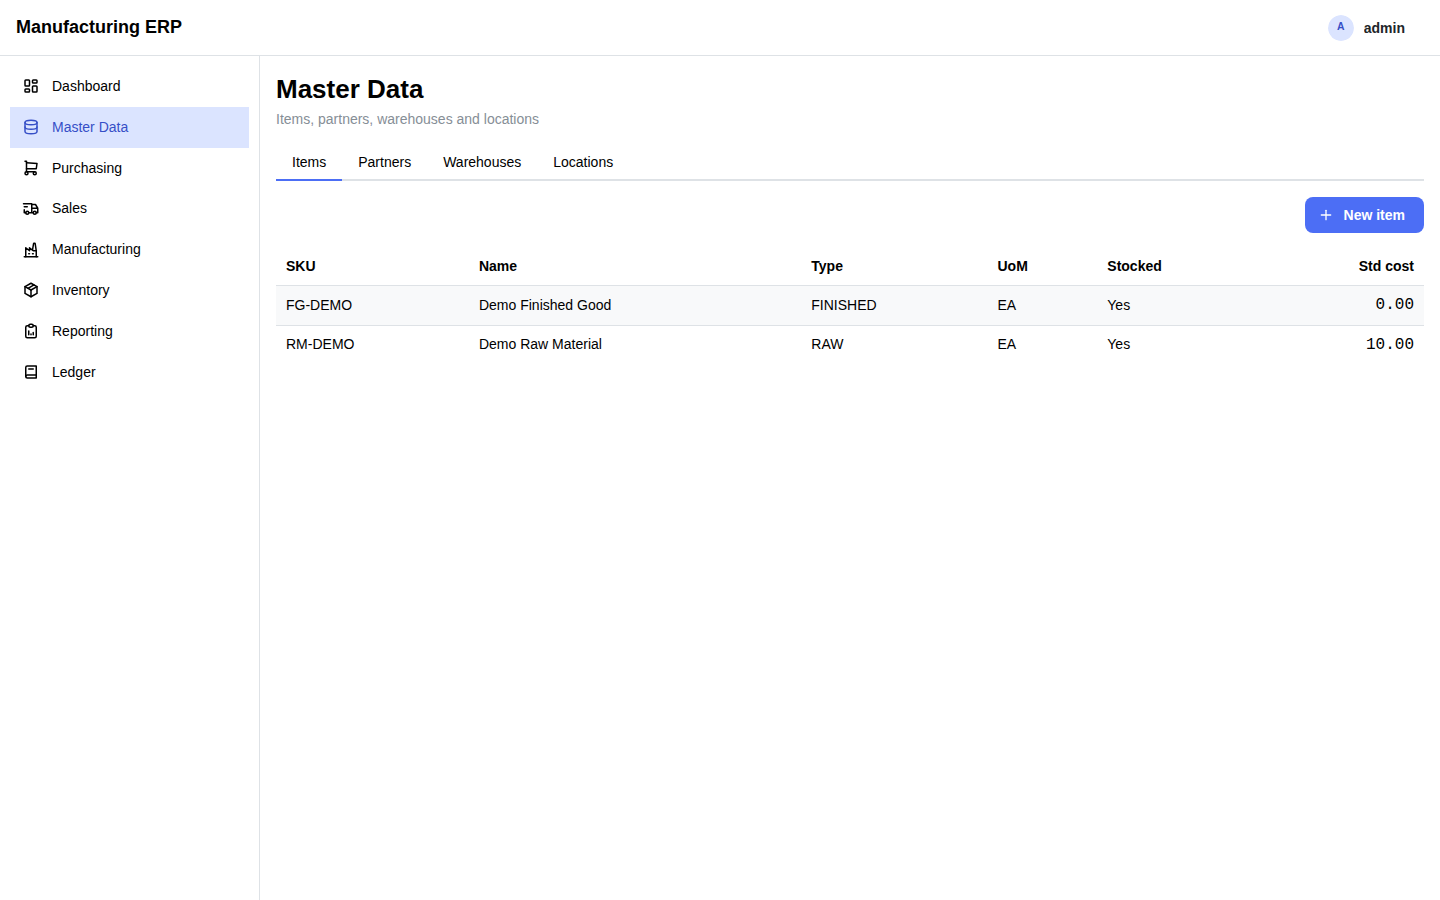
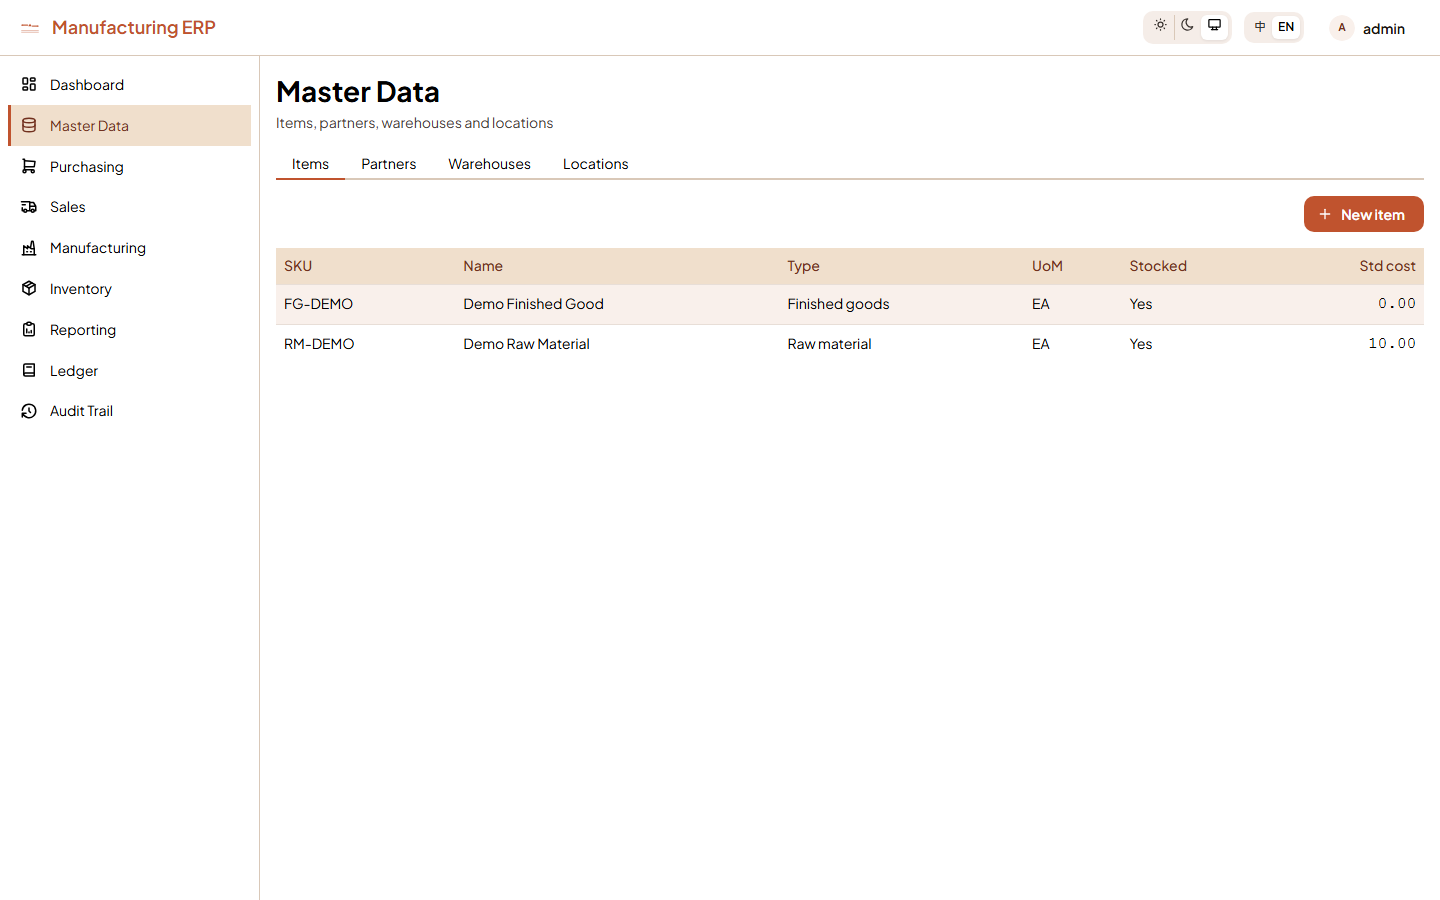
文件: Warm Terracotta Phase 3 — README 更新 + 重拍截圖
重拍全部 9 張既有截圖(01-dashboard ~ 09-new-item-modal),換上 Warm
Terracotta 新版外觀(English 語系、light 模式,與原截圖慣例一致);新增
2 張:10-dark-mode.png(深色模式儀表板)、11-onboarding-tour.png(新手導覽
welcome 步驟)。

沙箱其實有對外網路存取,故直接用 headless Playwright 對線上 live demo
腳本化操作(登入 admin → 略過導覽 → 逐模組導覽 → 截圖),與原本 9 張截圖
同款手法。腳本踩坑:① 首次到訪的導覽 welcome 步驟其滿版 backdrop 會擋住
登入表單點擊,須先偵測並點 Skip;② .isVisible() 不會等待(與 .waitFor()
不同),改用 .waitFor({state:'visible', timeout}) 才能正確判斷元件是否
已渲染;③ 沙箱環境預設語系是繁體中文,需在 newContext({locale:'en-US'})
明確指定;④ nav link 文字與 header logo 的 aria-label 重疊,需加 exact:true。

README.md / README.en.md 雙語同步更新:「🖼 畫面」加深色模式+新手導覽
雙欄;「🖥 前端」加「Warm Terracotta 設計系統」+「新手導覽」兩段介紹;
「🗺 路線圖」加重設計完成條目(12 個 PR,#62–#73,連到設計 spec);
「文件索引」加設計 spec 連結。

🎉 Warm Terracotta 全程(Phase 2 + 3)完成。

diff --git a/README.en.md b/README.en.md
@@ -79,6 +79,12 @@ zero after a complete cycle. This one report is the project's hero artifact.
 |---|---|---|
 | <img src="docs/screenshots/03-purchasing.png" alt="Purchasing"> | <img src="docs/screenshots/05-manufacturing.png" alt="Manufacturing"> | <img src="docs/screenshots/07-reporting.png" alt="Reports"> |
 
+**The "Warm Terracotta" redesign** (warm terracotta palette + dark mode + a hand-rolled onboarding tour):
+
+| Dark mode | Onboarding tour (13 steps, one per module landing page) |
+|---|---|
+| <img src="docs/screenshots/10-dark-mode.png" alt="Dark mode"> | <img src="docs/screenshots/11-onboarding-tour.png" alt="Onboarding tour"> |
+
 > Captured by headless Playwright against the live demo; the same run verified login + all 8 pages
 > rendering + a form modal opening, with **zero console/runtime errors**.
 
@@ -235,6 +241,19 @@ an append-only `audit_log` (domain events + an `AFTER_COMMIT` listener, so only 
 recorded; a DB trigger blocks update/delete). ADMIN users browse the "Audit Trail" page, filterable by event
 type and actor.
 
+**The "Warm Terracotta" design system**: a self-built Mantine theme — a warm terracotta primary color
+(`#C0532E`) + a warm-gray neutral scale (replacing the stock cool gray) + a self-hosted Plus Jakarta Sans;
+light/dark mode toggles instantly from the top bar (defaults to the OS preference, persisted to
+localStorage). The component layer is a global `theme.components` override (warm tables, cards, inputs, …)
+plus 7 shared components (`DataTable`/`DetailDrawer`/`StateButton`/`StatTile`/`AmountAllocationTable`/
+`EmptyState`/an enhanced `PageHeader`) — built as each module actually adopted them, not speculatively.
+
+**Onboarding tour (hand-rolled, no tour library)**: a ~2.5KB spotlight-and-callout overlay covering the
+login page's demo accounts, the reconciliation health-check, and **every module's landing page** (13 steps
+total). A `MutationObserver` detects which target element is present on the current page, so the tour
+continues naturally across navigation (login → dashboard → each module); progress persists to localStorage
+and can be restarted anytime from the user menu.
+
 **Observability**: Micrometer exposes metrics at `/actuator/prometheus` (reachable only on the internal
 network) — business counters derived from the same domain events (postings/logins/period changes) plus a
 reconciliation-health gauge, alongside free HTTP/JVM/pool metrics; structured (ECS) JSON logging and a
@@ -301,6 +320,13 @@ read-only list endpoints per module) + a React frontend (8 stages: skeleton → 
 dashboard/reports → purchasing → sales → manufacturing → advanced → containerization) + a one-command
 `docker compose` demo.
 
+**✅ The "Warm Terracotta" UI/UX redesign**: a site-wide theme + `theme.components` override layer (warm
+terracotta primary, warm-gray neutral scale, self-hosted font), 7 shared components built as adopted, an
+8-module page-by-page polish pass, a hand-rolled onboarding tour (13 steps covering every module's landing
+page), and an accessibility sweep (every icon-only control has an `aria-label`; Modals/Drawers rely
+throughout on Mantine's built-in focus-trap). Delivered as 12 PRs (`#62`–`#73`); design spec at
+[docs/superpowers/specs/2026-06-30-warm-terracotta-redesign-design.md](docs/superpowers/specs/2026-06-30-warm-terracotta-redesign-design.md).
+
 ## ⚠ Consciously deferred (not gaps)
 
 Multi-currency/FX, multi-tenancy (never), FIFO/standard-cost variances, a tax engine beyond one VAT
@@ -331,6 +357,7 @@ The senior-signal decisions, each written up under [docs/adr/](docs/adr/):
 | Document | Contents |
 |---|---|
 | [PROGRESS.md](PROGRESS.md) | Stage-by-stage progress, key decisions, environment notes |
+| [docs/superpowers/specs/2026-06-30-warm-terracotta-redesign-design.md](docs/superpowers/specs/2026-06-30-warm-terracotta-redesign-design.md) | The "Warm Terracotta" UI/UX redesign spec (palette, component layer, per-module polish, onboarding tour) |
 | [docs/adr/](docs/adr/) | Architecture decision records (ADR 0001–0009) |
 | [docs/DEPLOY.md](docs/DEPLOY.md) | Deployment: local one-command demo + cloud subdomain (Cloudflare Tunnel + Caddy) |
 | [compose.demo.yaml](compose.demo.yaml) | One-command demo (postgres + backend + frontend) |
